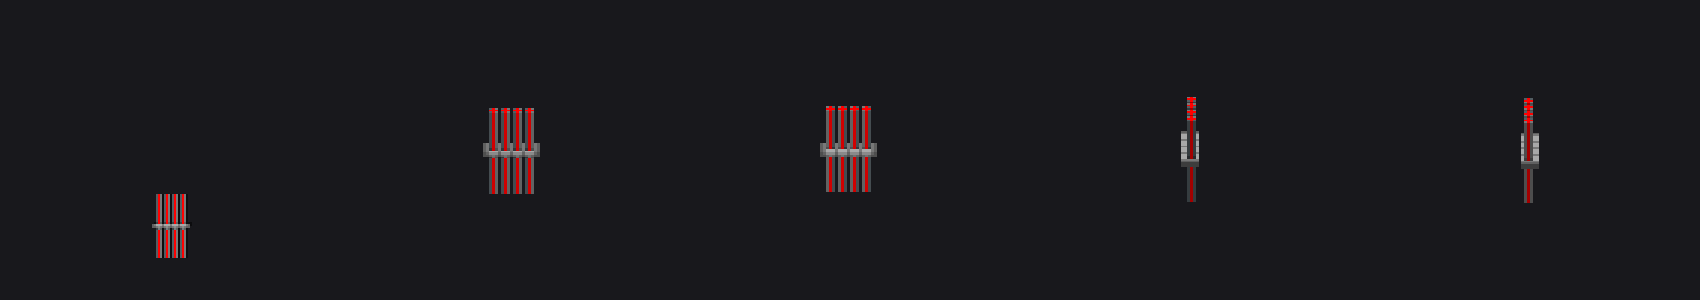
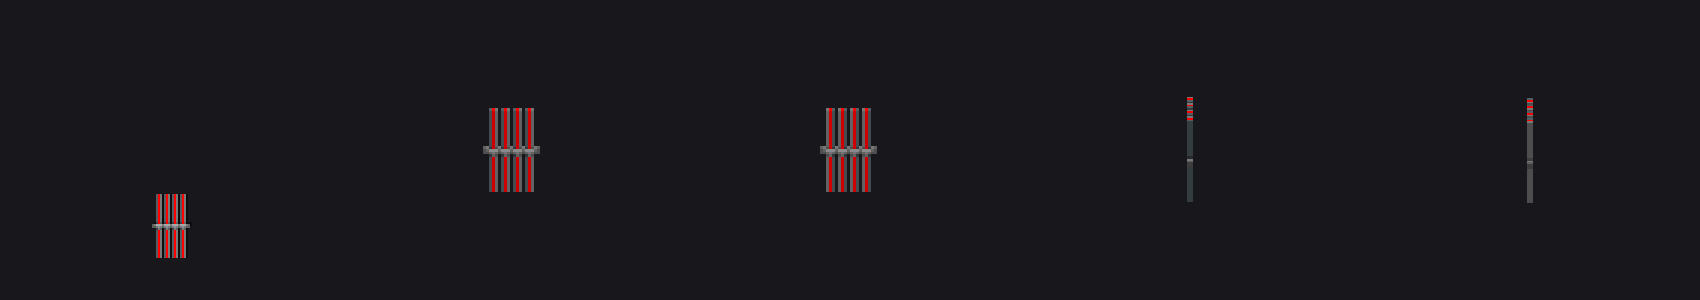
Conduits back to the flat extrusion Joey approved; member/stand builds stand for the rest of D1

diff --git a/crates/voxelizer/src/props.rs b/crates/voxelizer/src/props.rs
@@ -3351,8 +3351,6 @@ pub const REST_MEMBER_PINS: &[&str] = &[
     "f_hoist_pulley",
     "f_hanging_meathook",
     "f_ground_cable",
-    "f_electrical_conduit",
-    "f_LIXA_electrical_conduit",
     "f_lane",
 ];
 
@@ -4015,6 +4013,42 @@ fn dish_model(sprite: &RgbaImage) -> Option<PropModel> {
     Some(m)
 }
 
+/// A thin upright as a flat structure extrusion
+/// (front/back faces carry the sprite, structure pixels
+/// fill between) -- kept for the two conduit bundles,
+/// the one flat build Joey approved in the D1 group.
+fn frame_model(sprite: &RgbaImage, depth: u32) -> Option<PropModel> {
+    let (w, h) = (sprite.width(), sprite.height());
+    let mut rows = (0..h).filter(|&y| (0..w).any(|x| opaque(*sprite.get_pixel(x, y))));
+    let band = rows.next()?..rows.last()? + 1;
+    let fh = band.end - band.start;
+    let zc = 16i32;
+    let z0 = zc - (depth as i32) / 2;
+    let z1 = z0 + depth as i32 - 1;
+    let mut m = PropModel::new([w, fh, 32]);
+    for y in 0..fh {
+        let r = band.end - 1 - y;
+        for x in 0..w {
+            let px = *sprite.get_pixel(x, r);
+            if !opaque(px) {
+                continue;
+            }
+            if structure(px) {
+                for z in z0..=z1 {
+                    m.set(x, y, z as u32, Some(px));
+                }
+            } else {
+                m.set(x, y, z0 as u32, Some(px));
+                m.set(x, y, z1 as u32, Some(px));
+            }
+        }
+    }
+    if m.solid_count() == 0 {
+        return None;
+    }
+    Some(m)
+}
+
 /// The opaque band as a segmentation, with none of
 /// [`seamless_segment`]'s firing criteria — for rest-of-
 /// props pins whose sprites are too thin, sparse, or
@@ -4059,6 +4093,16 @@ pub fn coverage_model(id: &str, sprite: &RgbaImage) -> Option<PropModel> {
             if let Some(m) = lathe_model(sprite, &seg) {
                 return Some(m);
             }
+        }
+    }
+    if id == "f_electrical_conduit" || id == "f_LIXA_electrical_conduit" {
+        // The two conduit bundles keep the flat
+        // extrusion: Joey reviewed the whole D1 group
+        // (2026-11-17) and these were the only side
+        // views he called OK -- a wall-run pipe bundle
+        // reads correctly as a flat row.
+        if let Some(m) = frame_model(sprite, 2) {
+            return Some(m);
         }
     }
     if REST_MEMBER_PINS.contains(&id) {
